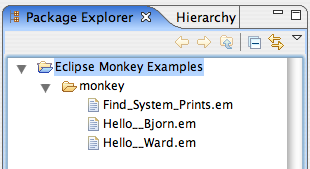
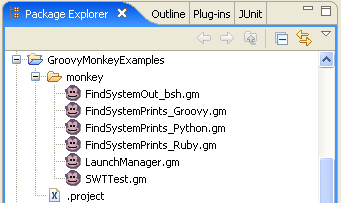
Updating documentation.

diff --git a/net.sf.groovyMonkey.help/html/installing.html b/net.sf.groovyMonkey.help/html/installing.html
@@ -19,7 +19,7 @@
 <p>
 3. Select the Groovy Monkey feature. (Use "Next", agree to various licenses, and press "Finish".)
 <center>
-<img src="images/getmonkey2.gif"/>
+<img src="images/getGroovyMonkey2.gif"/>
 </center>
 </p>
 
@@ -31,7 +31,7 @@
 <p>or the Create Examples Groovy Monkey menu item: <em>(note: this handy menu item vanishes once you have created at least one script - using the logic that if you've written a script, you don't need the examples)</em></p>
 <center><img src="images/monkey-menu.png"/></center>
 </p>
-<p>Then you'll have a small collection of sample and example scripts loaded into a new project named "Groovy Monkey Examples":
+<p>Then you'll have a small collection of sample and example scripts loaded into a new project named "GroovyMonkeyExamples":
 <center>
 <img src="images/monkey-examples.png"/>
 </center>
